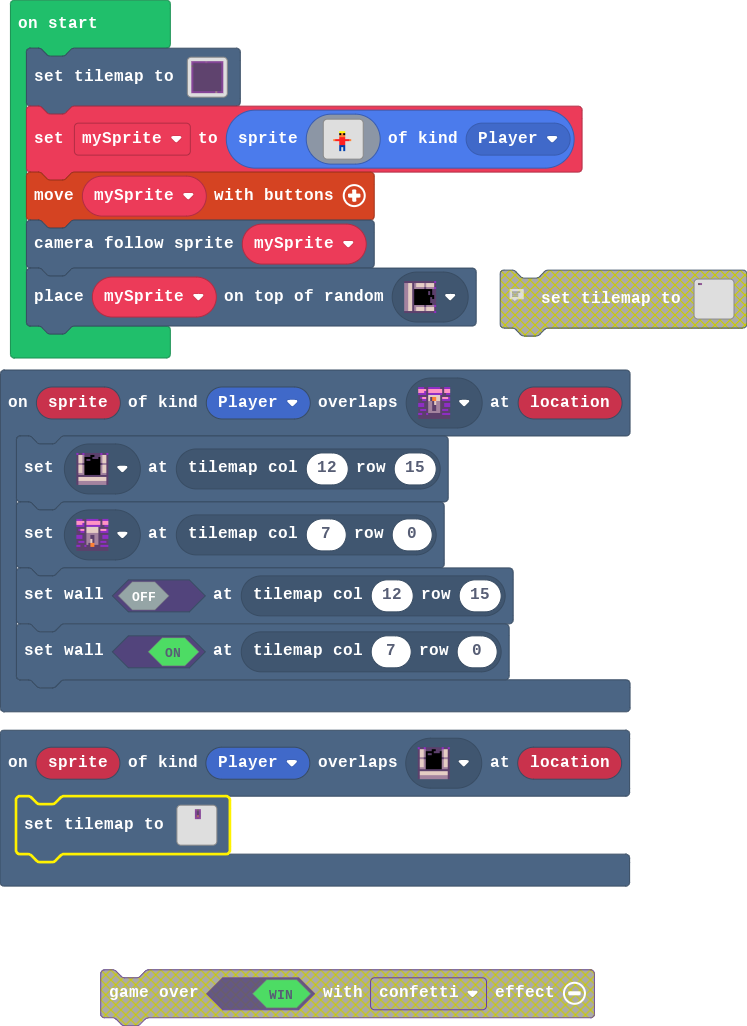
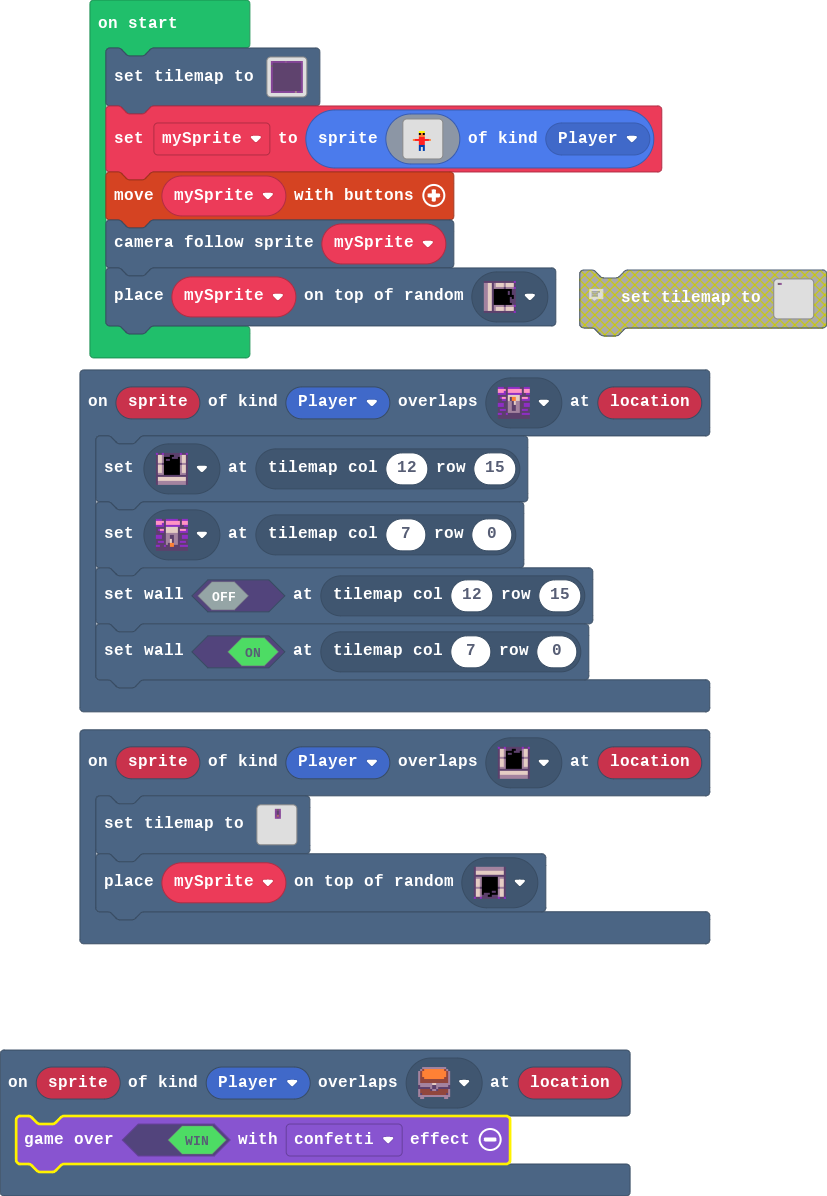
Update pxt.json, main.blocks, main.ts, tilemap.g.jres, tilemap.g.ts

diff --git a/tilemap.g.ts b/tilemap.g.ts
@@ -144,11 +144,11 @@ namespace myTiles {
 `, [myTiles.transparency16,sprites.dungeon.purpleOuterEast0,sprites.dungeon.darkGroundNorthWest1,sprites.dungeon.purpleOuterWest0,sprites.dungeon.purpleOuterNorth1,sprites.dungeon.purpleOuterSouth1,sprites.dungeon.purpleOuterSouthWest,sprites.dungeon.purpleOuterNorthEast,sprites.dungeon.purpleOuterNorthWest,sprites.dungeon.purpleOuterSouthEast,sprites.dungeon.doorOpenWest,sprites.dungeon.doorLockedSouth,sprites.dungeon.purpleSwitchUp], TileScale.Sixteen);
             case "level8":
[1 lines of base64/hex data omitted]
-. . . . . . . . . . . . . . . . 
-. . . . . . . . . . . . . . . . 
-. . . . . . . . . . . . . . . . 
-. . . . . . . . . . . . . . . . 
-. . . . . . . . . . . . . . . . 
+. . . . . . . 2 . 2 . . . . . . 
+. . . . . . . 2 . 2 . . . . . . 
+. . . . . . . 2 . 2 . . . . . . 
+. . . . . . . 2 . 2 . . . . . . 
+. . . . . . . 2 2 2 . . . . . . 
 . . . . . . . . . . . . . . . . 
 . . . . . . . . . . . . . . . . 
 . . . . . . . . . . . . . . . . 

diff --git a/main.ts b/main.ts
@@ -1,5 +1,9 @@
 scene.onOverlapTile(SpriteKind.Player, sprites.dungeon.doorOpenSouth, function (sprite, location) {
     tiles.setTilemap(tilemap`level8`)
+    tiles.placeOnRandomTile(mySprite, sprites.dungeon.doorOpenNorth)
+})
+scene.onOverlapTile(SpriteKind.Player, sprites.dungeon.chestClosed, function (sprite, location) {
+    game.over(true, effects.confetti)
 })
 scene.onOverlapTile(SpriteKind.Player, sprites.dungeon.purpleSwitchUp, function (sprite, location) {
     tiles.setTileAt(tiles.getTileLocation(12, 15), sprites.dungeon.doorOpenSouth)
@@ -7,8 +11,9 @@ scene.onOverlapTile(SpriteKind.Player, sprites.dungeon.purpleSwitchUp, function 
     tiles.setWallAt(tiles.getTileLocation(12, 15), false)
     tiles.setWallAt(tiles.getTileLocation(7, 0), true)
 })
+let mySprite: Sprite = null
 tiles.setTilemap(tilemap`level5`)
-let mySprite = sprites.create(img`
+mySprite = sprites.create(img`
     . . . . . . . . . . . . . . . . 
     . . . . . . . . . . . . . . . . 
     . . . . . . . . . . . . . . . . 
